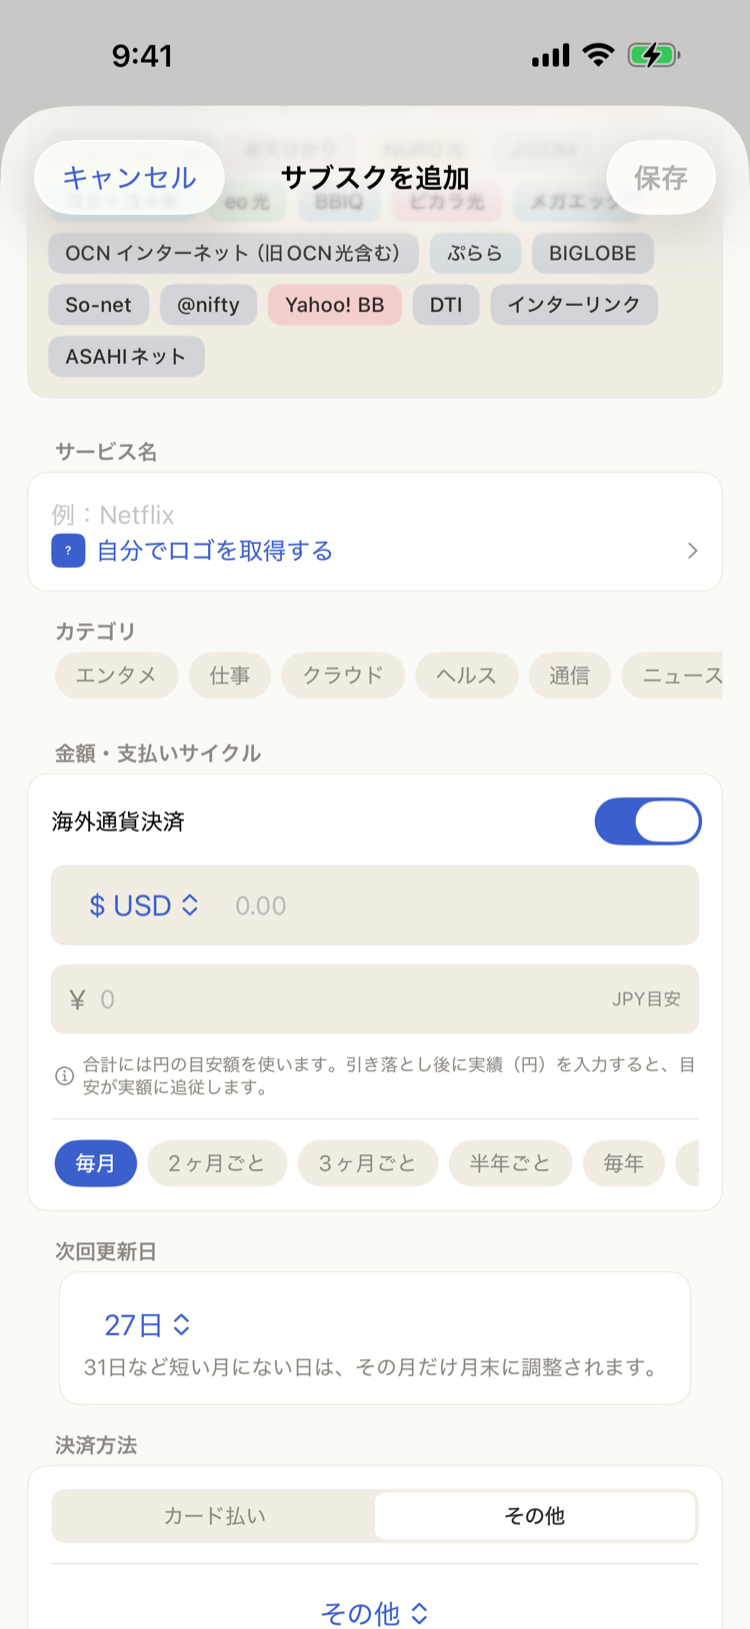
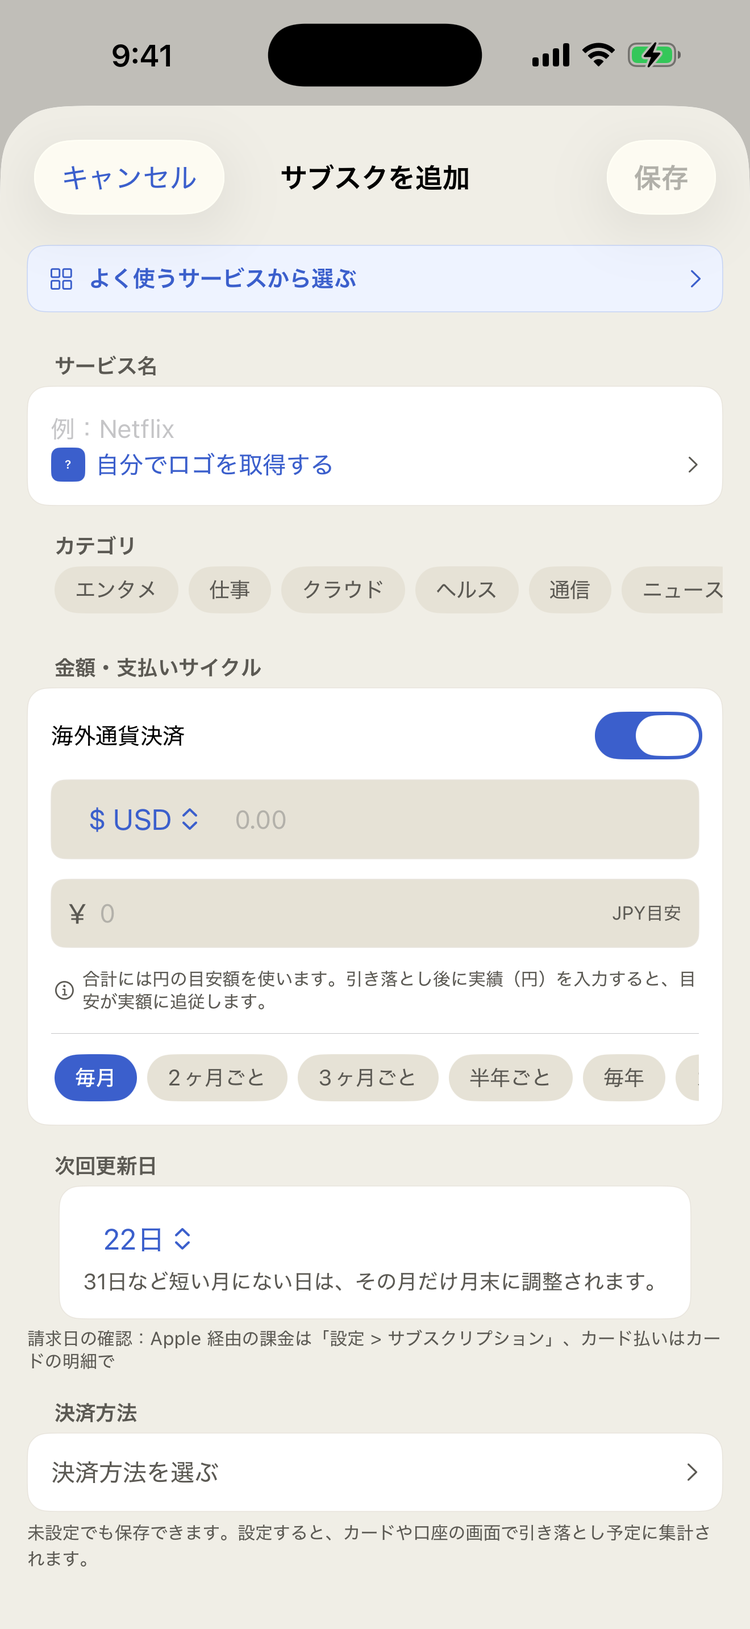
fix: 「再現できず据え置き」にしていたスクショ7種を撮り直す
## なぜ

前回（`f6115d3`）で「未更新の7種＝再現できなかったもの・据え置き」と書いたが、
Kentaro 指摘「**一度は出来ているのだから無理ではないはず**」。
`git log --follow` で確認すると **7種すべて過去に実際に撮れていた**
（07-11 / 07-27 / 08-01 / 08-02 / 08-05）。

「再現できず」は調査の結論ではなく**その日の打ち切り**だった。
それを「据え置き（＝やらない）」の顔で記録に残すと、次に読んだ人が挑戦し直さなくなる。

## 前回書いた「できない理由」は、ひとつも当たっていなかった

| 前回の記述 | 実際の原因 |
|---|---|
| フォーム入力が要る（foreign / pricechange） | **入力は不要**。旧画像も金額は空欄だった |
| シミュレータへのテキスト入力が通らない | 🔴 **通っていた**。日本語かなキーボードが `Keepy` を `けえpy` に変換していただけ（変換候補をタップすれば確定する） |
| トグルの座標が当たらない（guide の step2/step3） | 🔴 **座標ではなく押し方**。UISwitch は瞬間タップを無視する＝**150ms 程度の押下時間**が要る |
| ロック画面通知は再現手段がない | `xcrun simctl push` で出る（文言は `NotificationManager+Content.swift` の `.normal` 分岐から転記） |
| ウィジェットの配置操作が要る | 要るが普通にできる（ホーム長押し→編集→ウィジェットを追加→検索） |
| 復活カギはバックアップ作成が要る | **不要**。手動バックアップを押した時点で復活カギシートが出る |
| `phase == .checklist` を作れない | `-uiTestReset -uiTestOnboarding` でウィザードが出る（`OnboardingFlowTests` が手順を持っていた） |

## 撮り直した7種（21ファイル）

iPhone 17 Pro Max（iOS 26.5）シミュレータ・アプリは build 18 相当（`8a31624`）。
`1320×2868` で撮り、既存の寸法規約（750×1630 / 422×917 / 211×458、`img/` 配下は高さ 1629）で3サイズ生成。

- `images/ss_notification.jpg` — ロック画面の更新通知。**文言が現行実装に追随した**
  （旧: Netflix / 3日後に更新 / 8/4 に ¥1,590 → 新: ChatGPT Plusの更新まで3日 / ¥3,000が引き落とされます。）
- `images/ss_widgets_home.png` ＆ `img/manual/widget.png` — ホーム画面ウィジェット（中＋小）。旧画と同じく1枚を2ファイルに使用
- `images/ss_checklist_home.png` — 「はじめる準備」0/4
- `img/manual/foreign.png` — 海外通貨決済 ON。**決済方法が現行の参照方式（v4.4）になった**
- `img/manual/pricechange.png` — 金額変更の予告。**日付が英語表記（`Jul 27, 2026`）→日本語表記に直った**
[…]

diff --git a/index.html b/index.html
@@ -427,14 +427,15 @@
     }
     /* 🔴 見せたいのは通知カードなので、それが枠の**縦中央**に来るようにする。
      * 旧実装は object-position: bottom＝画像の下端合わせだった。通知カードは
-     * 画像の下端ではなく少し上（画像高さの 79% の位置が中心）にあるため、
+     * 画像の下端ではなく少し上（画像高さの 84% の位置が中心）にあるため、
      * 枠の上端すれすれ（中心が上から約6px）に張り付いて見えていた。
-     * ⚠ object-position の % では直せない＝必要な値が枠の幅で変わる
-     *    （440px幅で89%・360px幅で92%）。だから画像自身の高さを基準にする:
+     * ⚠ object-position の % では直せない＝必要な値が枠の幅で変わる。
+     *    だから画像自身の高さを基準にする:
      *      top: 50%            … 画像の上端を枠の縦中央へ
-     *      translateY(-79%)    … 画像の高さの79%だけ引き上げる
-     *    ＝画像の79%地点（通知カードの中心）が枠の中央に一致する。幅に依存しない。
-     * 79% は実測値（750x1630 の原画でカードは y=1208..1378・中心 1293）。
+     *      translateY(-84%)    … 画像の高さの84%だけ引き上げる
+     *    ＝画像の84%地点（通知カードの中心）が枠の中央に一致する。幅に依存しない。
+     * 84% は実測値（2026-08-22 の撮り直し後・750x1630 の原画でカードは
+     * y=1307..1424・中心 1366＝83.8%）。旧スクショは 79%（y=1208..1378）だった。
      * 📌 スクショを差し替えたらこの数値を測り直すこと。 */
     .duo-b .duo-media img {
       position: absolute;
@@ -442,7 +443,7 @@
       width: 100%;
       height: auto;
       top: 50%;
-      transform: translateY(-79%);
+      transform: translateY(-84%);
       border-radius: 0;
     }
 
@@ -807,7 +808,7 @@
       </figure>
       <figure class="rise" style="--d: 0.32s">
         <div class="device">
-          <img srcset="images/ss_widgets_home-211.png 211w, images/ss_widgets_home-422.png 422w, images/ss_widgets_home.png 750w" sizes="216px" width="750" height="1630" src="images/ss_widgets_home.png" alt="ホームウィジェット" loading="lazy">
+          <img srcset="images/ss_widgets_home-211.png?v=3 211w, images/ss_widgets_home-422.png?v=3 422w, images/ss_widgets_home.png?v=3 750w" sizes="216px" width="750" height="1630" src="images/ss_widgets_home.png?v=3" alt="ホームウィジェット" loading="lazy">
         </div>
         <figcaption>ホームウィジェット</figcaption>
       </figure>
@@ -886,7 +887,7 @@
             <h3>スマート通知</h3>
             <p>無料トライアル終了・縛り解除・有効期限・90日以上使っていないサービスを事前にお知らせ。毎月1日には「先月のまとめ」も届きます。</p>
             <div class="duo-media">
-              <img srcset="images/ss_notification-211.jpg 211w, images/ss_notification-422.jpg 422w, images/ss_notification.jpg 750w" sizes="(max-width: 980px) 90vw, 440px" src="images/ss_notification.jpg" alt="ロック画面に届いたKeepyの更新通知" loading="lazy">
+              <img srcset="images/ss_notification-211.jpg?v=3 211w, images/ss_notification-422.jpg?v=3 422w, images/ss_notification.jpg?v=3 750w" sizes="(max-width: 980px) 90vw, 440px" src="images/ss_notification.jpg?v=3" alt="ロック画面に届いたKeepyの更新通知" loading="lazy">
             </div>
           </div>
         </div>

diff --git a/features.html b/features.html
@@ -403,7 +403,7 @@
   </div>
   <div class="phone-wrap">
     <div class="phone">
-      <img srcset="images/ss_checklist_home-211.png 211w, images/ss_checklist_home-422.png 422w, images/ss_checklist_home.png?v=2 750w" sizes="(max-width: 620px) 186px, 211px" width="750" height="1630" src="images/ss_checklist_home.png?v=2" alt="はじめる準備チェックリスト" loading="lazy">
+      <img srcset="images/ss_checklist_home-211.png 211w, images/ss_checklist_home-422.png 422w, images/ss_checklist_home.png?v=3 750w" sizes="(max-width: 620px) 186px, 211px" width="750" height="1630" src="images/ss_checklist_home.png?v=3" alt="はじめる準備チェックリスト" loading="lazy">
     </div>
   </div>
 </section>
@@ -547,7 +547,7 @@
   </div>
   <div class="phone-wrap">
     <div class="phone">
-      <img srcset="images/ss_widgets_home-211.png 211w, images/ss_widgets_home-422.png 422w, images/ss_widgets_home.png?v=2 750w" sizes="(max-width: 620px) 186px, 211px" width="750" height="1630" src="images/ss_widgets_home.png?v=2" alt="ホーム画面のKeepyウィジェット。今月の合計・進捗と次の支払い" loading="lazy">
+      <img srcset="images/ss_widgets_home-211.png 211w, images/ss_widgets_home-422.png 422w, images/ss_widgets_home.png?v=3 750w" sizes="(max-width: 620px) 186px, 211px" width="750" height="1630" src="images/ss_widgets_home.png?v=3" alt="ホーム画面のKeepyウィジェット。今月の合計・進捗と次の支払い" loading="lazy">
     </div>
   </div>
 </section>
@@ -581,7 +581,7 @@
   </div>
   <div class="phone-wrap">
     <div class="phone">
-      <img srcset="images/ss_notification-211.jpg 211w, images/ss_notification-422.jpg 422w, images/ss_notification.jpg?v=2 750w" sizes="(max-width: 620px) 186px, 211px" width="750" height="1630" src="images/ss_notification.jpg?v=2" alt="ロック画面に届く更新3日前の通知" loading="lazy">
+      <img srcset="images/ss_notification-211.jpg 211w, images/ss_notification-422.jpg 422w, images/ss_notification.jpg?v=3 750w" sizes="(max-width: 620px) 186px, 211px" width="750" height="1630" src="images/ss_notification.jpg?v=3" alt="ロック画面に届く更新3日前の通知" loading="lazy">
     </div>
   </div>
 </section>
